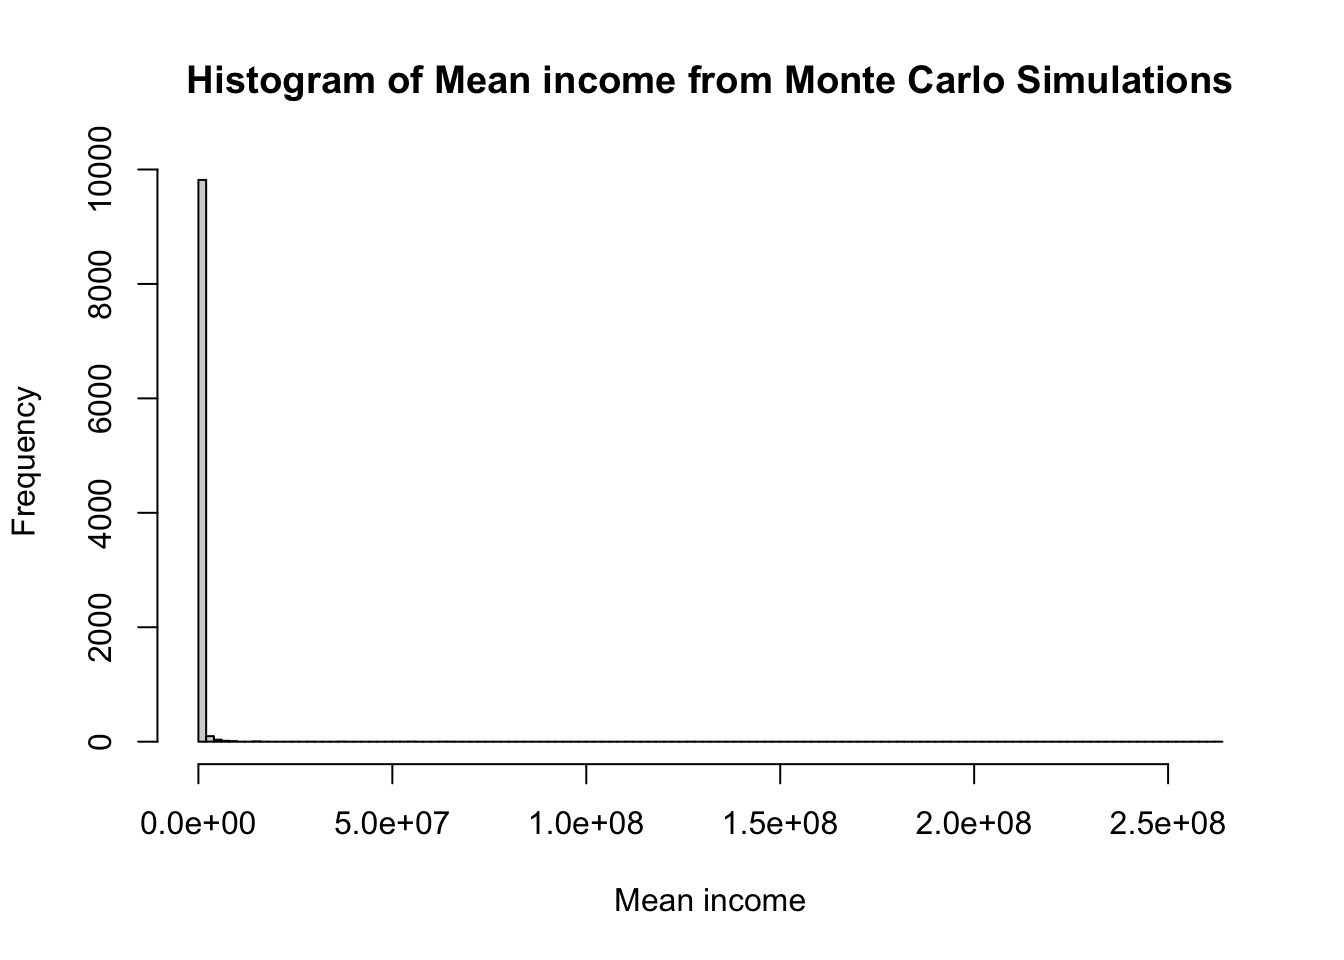
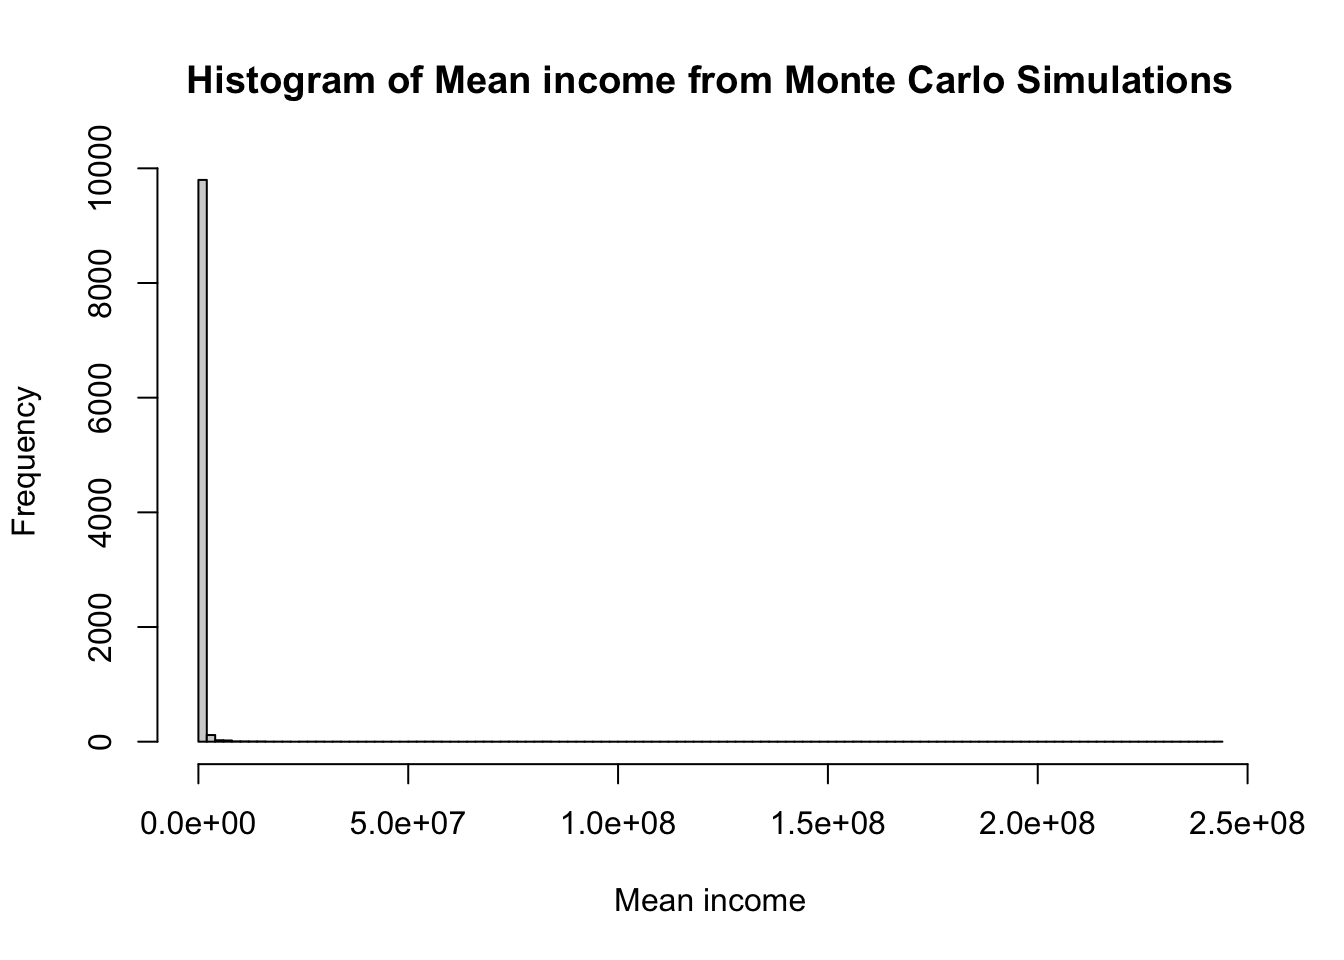
subscribe

diff --git a/docs/Revision notes/Basic science/Classifications and tables/Classification.html b/docs/Revision notes/Basic science/Classifications and tables/Classification.html
@@ -732,7 +732,37 @@ cookieconsent.run({
 <div id="quarto-sidebar-glass" class="quarto-sidebar-collapse-item" data-bs-toggle="collapse" data-bs-target=".quarto-sidebar-collapse-item"></div>
 <!-- margin-sidebar -->
     <div id="quarto-margin-sidebar" class="sidebar margin-sidebar"><div class="quarto-margin-header"><div class="margin-header-item">
-<p>subscribe.html</p>
+<div id="mc_embed_shell">
+      <link href="//cdn-images.mailchimp.com/embedcode/classic-061523.css" rel="stylesheet" type="text/css">
+  <style type="text/css">
+        #mc_embed_signup{background:#fff; false;clear:left; font:14px Helvetica,Arial,sans-serif; width: px;}
+        /* Add your own Mailchimp form style overrides in your site stylesheet or in this style block.
+           We recommend moving this block and the preceding CSS link to the HEAD of your HTML file. */
+</style>
+<div id="mc_embed_signup">
+    <form action="https://knotes.us17.list-manage.com/subscribe/post?u=cbd11e712b45e98cdaab2dd4d&amp;id=aeaca1e768&amp;f_id=00dbc2e1f0" method="post" id="mc-embedded-subscribe-form" name="mc-embedded-subscribe-form" class="validate" target="_blank">
+        <div id="mc_embed_signup_scroll"><h2>Subscribe</h2>
+            <div class="indicates-required"><span class="asterisk">*</span> indicates required</div>
+            <div class="mc-field-group"><label for="mce-EMAIL">Email Address <span class="asterisk">*</span></label><input type="email" name="EMAIL" class="required email" id="mce-EMAIL" required="" value=""></div>
+        <div id="mce-responses" class="clear foot">
+            <div class="response" id="mce-error-response" style="display: none;"></div>
+            <div class="response" id="mce-success-response" style="display: none;"></div>
+        </div>
+    <div aria-hidden="true" style="position: absolute; left: -5000px;">
+        /* real people should not fill this in and expect good things - do not remove this or risk form bot signups */
+        <input type="text" name="b_cbd11e712b45e98cdaab2dd4d_aeaca1e768" tabindex="-1" value="">
+    </div>
+        <div class="optionalParent">
+            <div class="clear foot">
+                <input type="submit" name="subscribe" id="mc-embedded-subscribe" class="button" value="Subscribe">
+                
+            </div>
+        </div>
+    </div>
+</form>
+</div>
+<script type="text/javascript" src="//s3.amazonaws.com/downloads.mailchimp.com/js/mc-validate.js"></script><script type="text/javascript">(function($) {window.fnames = new Array(); window.ftypes = new Array();fnames[0]='EMAIL';ftypes[0]='email';fnames[1]='FNAME';ftypes[1]='text';fnames[2]='LNAME';ftypes[2]='text';fnames[3]='ADDRESS';ftypes[3]='address';fnames[4]='PHONE';ftypes[4]='phone';fnames[5]='BIRTHDAY';ftypes[5]='birthday';}(jQuery));var $mcj = jQuery.noConflict(true);</script></div>
+
 </div></div>
         <nav id="TOC" role="doc-toc" class="toc-active">
     <h2 id="toc-title">On this page</h2>

diff --git a/docs/Revision notes/Basic science/Classifications and tables/Tables.html b/docs/Revision notes/Basic science/Classifications and tables/Tables.html
@@ -732,7 +732,37 @@ cookieconsent.run({
 <div id="quarto-sidebar-glass" class="quarto-sidebar-collapse-item" data-bs-toggle="collapse" data-bs-target=".quarto-sidebar-collapse-item"></div>
 <!-- margin-sidebar -->
     <div id="quarto-margin-sidebar" class="sidebar margin-sidebar"><div class="quarto-margin-header"><div class="margin-header-item">
-<p>subscribe.html</p>
+<div id="mc_embed_shell">
+      <link href="//cdn-images.mailchimp.com/embedcode/classic-061523.css" rel="stylesheet" type="text/css">
+  <style type="text/css">
+        #mc_embed_signup{background:#fff; false;clear:left; font:14px Helvetica,Arial,sans-serif; width: px;}
+        /* Add your own Mailchimp form style overrides in your site stylesheet or in this style block.
+           We recommend moving this block and the preceding CSS link to the HEAD of your HTML file. */
+</style>
+<div id="mc_embed_signup">
+    <form action="https://knotes.us17.list-manage.com/subscribe/post?u=cbd11e712b45e98cdaab2dd4d&amp;id=aeaca1e768&amp;f_id=00dbc2e1f0" method="post" id="mc-embedded-subscribe-form" name="mc-embedded-subscribe-form" class="validate" target="_blank">
+        <div id="mc_embed_signup_scroll"><h2>Subscribe</h2>
+            <div class="indicates-required"><span class="asterisk">*</span> indicates required</div>
+            <div class="mc-field-group"><label for="mce-EMAIL">Email Address <span class="asterisk">*</span></label><input type="email" name="EMAIL" class="required email" id="mce-EMAIL" required="" value=""></div>
+        <div id="mce-responses" class="clear foot">
+            <div class="response" id="mce-error-response" style="display: none;"></div>
+            <div class="response" id="mce-success-response" style="display: none;"></div>
+        </div>
+    <div aria-hidden="true" style="position: absolute; left: -5000px;">
+        /* real people should not fill this in and expect good things - do not remove this or risk form bot signups */
+        <input type="text" name="b_cbd11e712b45e98cdaab2dd4d_aeaca1e768" tabindex="-1" value="">
+    </div>
+        <div class="optionalParent">
+            <div class="clear foot">
+                <input type="submit" name="subscribe" id="mc-embedded-subscribe" class="button" value="Subscribe">
+                
+            </div>
+        </div>
+    </div>
+</form>
+</div>
+<script type="text/javascript" src="//s3.amazonaws.com/downloads.mailchimp.com/js/mc-validate.js"></script><script type="text/javascript">(function($) {window.fnames = new Array(); window.ftypes = new Array();fnames[0]='EMAIL';ftypes[0]='email';fnames[1]='FNAME';ftypes[1]='text';fnames[2]='LNAME';ftypes[2]='text';fnames[3]='ADDRESS';ftypes[3]='address';fnames[4]='PHONE';ftypes[4]='phone';fnames[5]='BIRTHDAY';ftypes[5]='birthday';}(jQuery));var $mcj = jQuery.noConflict(true);</script></div>
+
 </div></div>
         <nav id="TOC" role="doc-toc" class="toc-active">
     <h2 id="toc-title">On this page</h2>

diff --git a/docs/posts/montecarlo.html b/docs/posts/montecarlo.html
@@ -6,7 +6,7 @@
 
 <meta name="viewport" content="width=device-width, initial-scale=1.0, user-scalable=yes">
 
-<meta name="dcterms.date" content="2024-05-26">
+<meta name="dcterms.date" content="2024-05-27">
 
 <title>knotes - Income distribution</title>
 <style>
@@ -867,7 +867,7 @@ window.Quarto = {
     <div>
     <div class="quarto-title-meta-heading">Published</div>
     <div class="quarto-title-meta-contents">
-      <p class="date">May 26, 2024</p>
+      <p class="date">May 27, 2024</p>
     </div>
   </div>
   
@@ -1005,7 +1005,7 @@ Income distribution is not normal
 </details>
 <div class="cell-output cell-output-stdout">
 <pre><code>     Min.   1st Qu.    Median      Mean   3rd Qu.      Max. 
-   213023    296518    343202    640830    432978 262355368 </code></pre>
+   207736    297290    344071    626483    440706 242182325 </code></pre>
 </div>
 <details open="" class="code-fold">
 <summary>Code</summary>
@@ -1013,7 +1013,7 @@ Income distribution is not normal
 </details>
 <div class="cell-output cell-output-stdout">
 <pre><code>   Min. 1st Qu.  Median    Mean 3rd Qu.    Max. 
-  61988   64086   64516   64513   64934   67194 </code></pre>
+  62059   64061   64497   64499   64927   67094 </code></pre>
 </div>
 <details open="" class="code-fold">
 <summary>Code</summary>
@@ -1021,7 +1021,7 @@ Income distribution is not normal
 </details>
 <div class="cell-output cell-output-stdout">
 <pre><code>     Min.   1st Qu.    Median      Mean   3rd Qu.      Max. 
-9.755e+05 3.326e+06 5.666e+06 3.464e+07 1.157e+07 2.621e+10 </code></pre>
+9.306e+05 3.432e+06 5.715e+06 3.322e+07 1.217e+07 2.417e+10 </code></pre>
 </div>
 </div>
 </section>

diff --git a/docs/posts.html b/docs/posts.html
@@ -953,9 +953,9 @@ Categories
 <span class="listing-categories">technology, ev</span>
 </td>
 </tr>
-<tr data-index="1" data-categories="Monte Carlo simulation,economics" data-listing-date-sort="1716661800000" data-listing-file-modified-sort="1716203287606" data-listing-date-modified-sort="NaN" data-listing-reading-time-sort="8" data-listing-word-count-sort="1412" data-listing-title-sort="Income distribution" data-listing-filename-sort="montecarlo.qmd">
+<tr data-index="1" data-categories="Monte Carlo simulation,economics" data-listing-date-sort="1716748200000" data-listing-file-modified-sort="1716203287606" data-listing-date-modified-sort="NaN" data-listing-reading-time-sort="8" data-listing-word-count-sort="1412" data-listing-title-sort="Income distribution" data-listing-filename-sort="montecarlo.qmd">
 <td>
-<span class="listing-date">May 26, 2024</span>
+<span class="listing-date">May 27, 2024</span>
 </td>
 <td>
 <a href="./posts/montecarlo.html" class="title listing-title">Income distribution</a>

diff --git a/docs/Revision notes/Diagrams/diagrams.html b/docs/Revision notes/Diagrams/diagrams.html
@@ -1285,7 +1285,7 @@ window.document.addEventListener("DOMContentLoaded", function (event) {
 </div>
   </div>
 </footer>
-<script>var lightboxQuarto = GLightbox({"openEffect":"zoom","loop":false,"descPosition":"bottom","selector":".lightbox","closeEffect":"zoom"});
+<script>var lightboxQuarto = GLightbox({"loop":false,"closeEffect":"zoom","selector":".lightbox","descPosition":"bottom","openEffect":"zoom"});
 window.onload = () => {
   lightboxQuarto.on('slide_before_load', (data) => {
     const { slideIndex, slideNode, slideConfig, player, trigger } = data;

diff --git a/docs/Catallactics/Personal/IMA SSS.html b/docs/Catallactics/Personal/IMA SSS.html
@@ -6,7 +6,7 @@
 
 <meta name="viewport" content="width=device-width, initial-scale=1.0, user-scalable=yes">
 
-<meta name="dcterms.date" content="2024-05-26">
+<meta name="dcterms.date" content="2024-05-27">
 
 <title>knotes - IMA SSS</title>
 <style>
@@ -799,7 +799,7 @@ cookieconsent.run({
     <div>
     <div class="quarto-title-meta-heading">Published</div>
     <div class="quarto-title-meta-contents">
-      <p class="date">May 26, 2024</p>
+      <p class="date">May 27, 2024</p>
     </div>
   </div>
   
